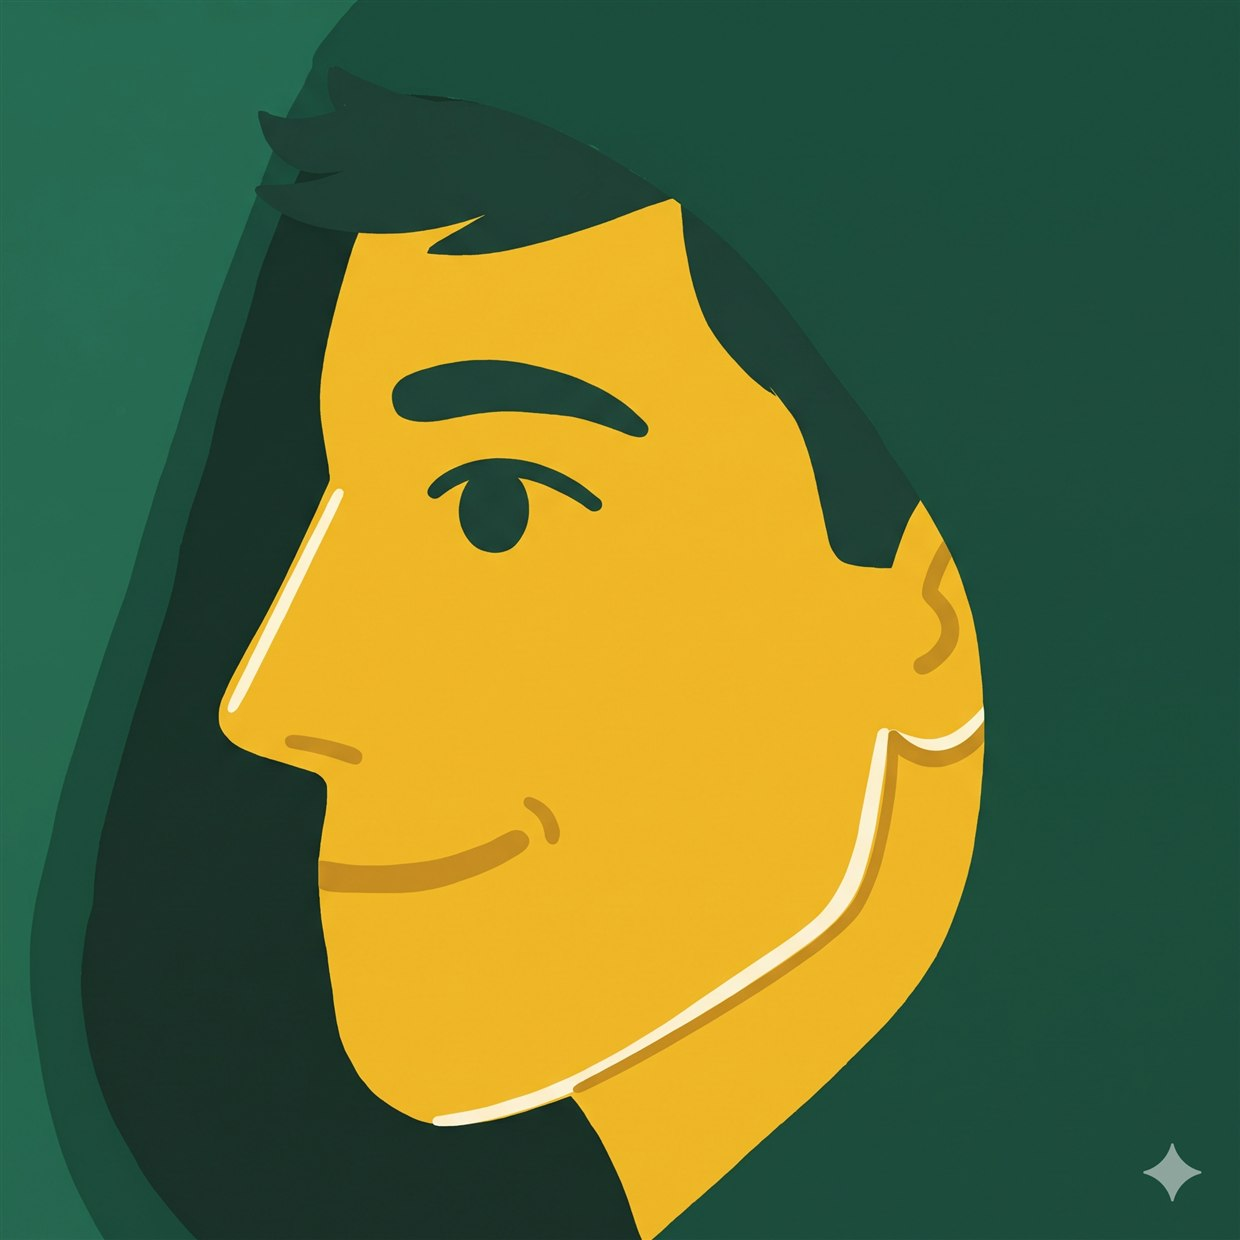
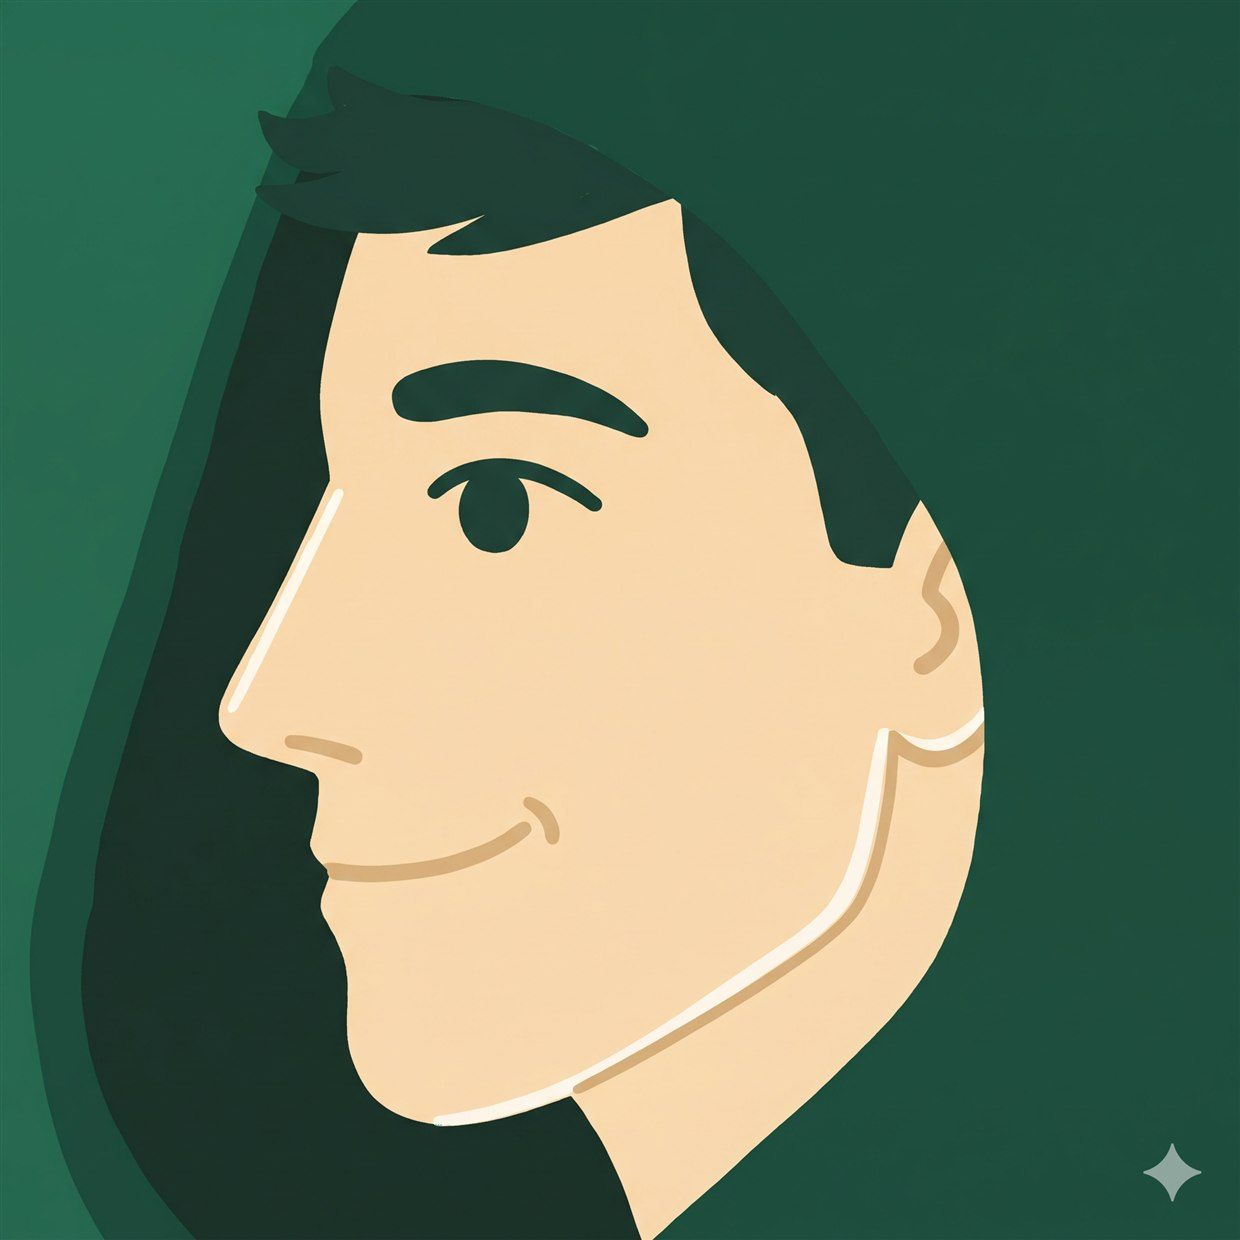
인트로 마지막 얼굴 클로즈업을 새 그림으로 교체

diff --git a/intro.js b/intro.js
@@ -10,7 +10,7 @@
   el.className = 'ji';
   el.setAttribute('aria-hidden', 'true');
   el.innerHTML = '<div class="ji-col"><div class="ji-tile"><div class="ji-cam"><img class="a" src="intro/scene_a.jpg" alt=""><img class="b" src="intro/scene_b.jpg" alt="" onerror="this.remove()"></div>'
-    + '<img class="ji-face" src="intro/scene_c.jpg" alt="" onerror="this.remove()"></div><div class="ji-word">저기요<i>가칭</i></div><span class="ji-tok a">톡</span><span class="ji-tok b">톡</span></div>';
+    + '<img class="ji-face" src="intro/scene_c.jpg?v=2" alt="" onerror="this.remove()"></div><div class="ji-word">저기요<i>가칭</i></div><span class="ji-tok a">톡</span><span class="ji-tok b">톡</span></div>';
   document.body.appendChild(el);
   const col = el.firstChild, $ = s => el.querySelector(s);
   let timers = [], done = false, actx = null;

diff --git a/c.html b/c.html
@@ -14,7 +14,7 @@
 <body>
 <div class="app" id="app"><div class="loading">불러오는 중</div></div>
 <div id="ov"></div>
-<script src="intro.js?v=5"></script>
+<script src="intro.js?v=6"></script>
 <script src="https://cdn.jsdelivr.net/npm/@supabase/supabase-js@2/dist/umd/supabase.min.js"></script>
 <script src="https://cdn.jsdelivr.net/npm/qrcode-generator@1.4.4/qrcode.min.js"></script>
 <script src="config.js?v=5"></script>

diff --git a/index.html b/index.html
@@ -20,7 +20,7 @@
 <body>
 <div class="app" id="app"><div class="loading">불러오는 중</div></div>
 <div id="ov"></div>
-<script src="intro.js?v=5"></script>
+<script src="intro.js?v=6"></script>
 <script src="https://cdn.jsdelivr.net/npm/@supabase/supabase-js@2/dist/umd/supabase.min.js"></script>
 <script src="https://cdn.jsdelivr.net/npm/qrcode-generator@1.4.4/qrcode.min.js"></script>
 <script src="config.js?v=5"></script>
